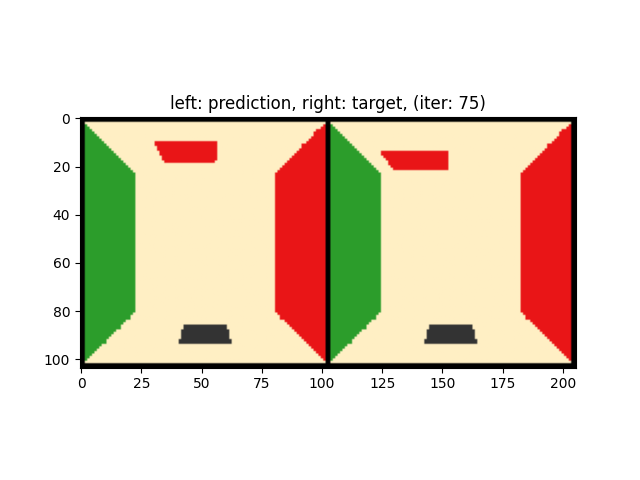
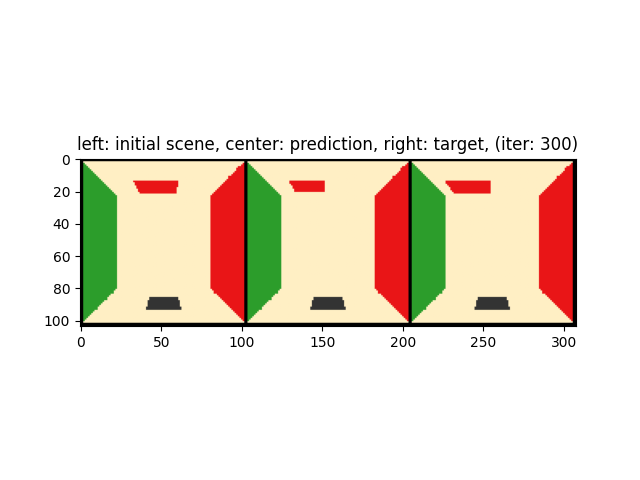
added

diff --git a/src/models.py b/src/models.py
@@ -20,6 +20,7 @@ class BasicRenderer:
     def __init__(self, source_scene, exp_dict):
         loss_fn = torch.nn.MSELoss(reduction='sum')
         self.source_scene = source_scene
+        self.source_start_scene = copy.deepcopy(source_scene)
         self.iteration = 0
 
     def train_on_batch(self, target_scene):
@@ -43,8 +44,11 @@ class BasicRenderer:
         H, W = 100, 100
         target_image = target_scene.get_scene_image().detach().view(H, W, 3).permute(2,0,1)
         pred_image = self.source_scene.get_scene_image().detach().view(H, W, 3).permute(2,0,1)
+        start_image = self.source_start_scene.get_scene_image().detach().view(H, W, 3).permute(2,0,1)
 
-        plt.imshow(make_grid([pred_image,target_image]).permute(1,2,0))
-        plt.title('left: prediction, right: target, (iter: %d)' % self.iteration)
-        plt.savefig('tmp.png')
+        plt.imshow(make_grid([start_image, 
+                    pred_image,
+                    target_image]).permute(1,2,0))
+        plt.title('left: initial scene, center: prediction, right: target, (iter: %d)' % self.iteration)
+        plt.savefig(fname)
         
